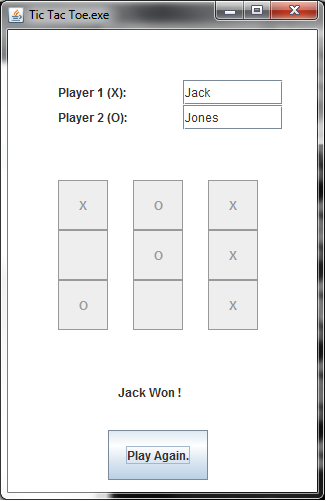
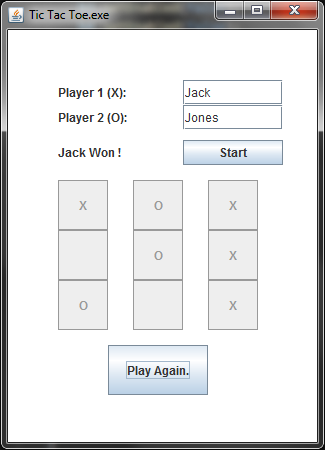
Added some features to avoid cheating.

diff --git a/tictactoe.java b/tictactoe.java
@@ -8,7 +8,7 @@ import java.awt.event.*;
 
 /**
     created on December 05 2018 Wed .
- */
+*/
 
 class tictac extends JFrame implements ActionListener
 {
@@ -23,6 +23,7 @@ class tictac extends JFrame implements ActionListener
     JButton b7=new JButton("");
     JButton b8=new JButton("");
     JButton b9=new JButton("");
+    JButton start=new JButton("Start");
     JLabel l1=new JLabel("Player 1 (X): ");
     JLabel l2=new JLabel("Player 2 (O): ");
     JTextField t1=new JTextField();
@@ -42,7 +43,7 @@ class tictac extends JFrame implements ActionListener
         c.setBackground(Color.WHITE);
 
         /* give the position to the buttons */
-        l3.setBounds(100,350,100,25);
+        l3.setBounds(50,110,100,25);
         t1.setBounds(175,50,100,25);
         t2.setBounds(175,75,100,25);
         l1.setBounds(50,50,100,25);
@@ -56,7 +57,8 @@ class tictac extends JFrame implements ActionListener
         b7.setBounds(50,250,50,50);
         b8.setBounds(125,250,50,50);
         b9.setBounds(200,250,50,50);
-        b0.setBounds(100,400,100,50);
+        b0.setBounds(100,315,100,50);
+        start.setBounds(175,110,100,25);
 
         b1.addActionListener(this);
         b2.addActionListener(this);
@@ -68,6 +70,7 @@ class tictac extends JFrame implements ActionListener
         b8.addActionListener(this);
         b9.addActionListener(this);
         b0.addActionListener(this);
+        start.addActionListener(this);
 
         /* adding buttons to container */
 
@@ -84,8 +87,9 @@ class tictac extends JFrame implements ActionListener
         c.add(l2);
         c.add(t1);
         c.add(t2);
-        c.add(l3);
         c.add(b0);
+        c.add(l3);
+        c.add(start);
 
         Cursor cur=new Cursor(Cursor.HAND_CURSOR);
 
@@ -99,6 +103,7 @@ class tictac extends JFrame implements ActionListener
         b8.setCursor(cur);
         b9.setCursor(cur);
         b0.setCursor(cur);
+        start.setCursor(cur);
 
     }// constructor
 
@@ -106,6 +111,7 @@ class tictac extends JFrame implements ActionListener
     {
         if(e.getSource()==b1){
             if(player1Turn == true){
+                l3.setText(""+t2.getText()+"'s Turn !");
                 b1.setText("X");
                 checkforwin();
                 player1Turn = false;
@@ -113,6 +119,7 @@ class tictac extends JFrame implements ActionListener
                 b1.setEnabled(false);
             }
             else{
+                l3.setText(""+t1.getText()+"'s Turn !");
                 b1.setText("O");
                 checkforwin();
                 player1Turn = true;
@@ -123,6 +130,7 @@ class tictac extends JFrame implements ActionListener
 
         if(e.getSource()==b2){
             if(player1Turn == true){
+                l3.setText(""+t2.getText()+"'s Turn !");
                 b2.setText("X");
                 checkforwin();
                 player1Turn = false;
@@ -130,6 +138,7 @@ class tictac extends JFrame implements ActionListener
                 b2.setEnabled(false);
             }
             else{
+                l3.setText(""+t1.getText()+"'s Turn !");
                 b2.setText("O");
                 checkforwin();
                 player1Turn = true;
@@ -140,6 +149,7 @@ class tictac extends JFrame implements ActionListener
 
         if(e.getSource()==b3){
             if(player1Turn == true){
+                l3.setText(""+t2.getText()+"'s Turn !");
                 b3.setText("X");
                 checkforwin();
                 player1Turn = false;
@@ -147,6 +157,7 @@ class tictac extends JFrame implements ActionListener
                 b3.setEnabled(false);
             }
             else{
+                l3.setText(""+t1.getText()+"'s Turn !");
                 b3.setText("O");
                 checkforwin();
                 player1Turn = true;
@@ -157,6 +168,7 @@ class tictac extends JFrame implements ActionListener
 
         if(e.getSource()==b4){
             if(player1Turn == true){
+                l3.setText(""+t2.getText()+"'s Turn !");
                 b4.setText("X");
                 checkforwin();
                 player1Turn = false;
@@ -164,6 +176,7 @@ class tictac extends JFrame implements ActionListener
                 b4.setEnabled(false);
             }
             else{
+                l3.setText(""+t1.getText()+"'s Turn !");
                 b4.setText("O");
                 checkforwin();
                 player1Turn = true;
@@ -174,6 +187,7 @@ class tictac extends JFrame implements ActionListener
 
         if(e.getSource()==b5){
             if(player1Turn == true){
+                l3.setText(""+t2.getText()+"'s Turn !");
                 b5.setText("X");
                 checkforwin();
                 player1Turn = false;
@@ -181,6 +195,7 @@ class tictac extends JFrame implements ActionListener
                 b5.setEnabled(false);
             }
             else{
+                l3.setText(""+t1.getText()+"'s Turn !");
                 b5.setText("O");
                 checkforwin();
                 player1Turn = true;
@@ -191,6 +206,7 @@ class tictac extends JFrame implements ActionListener
 
         if(e.getSource()==b6){
             if(player1Turn == true){
+                l3.setText(""+t2.getText()+"'s Turn !");
                 b6.setText("X");
                 checkforwin();
                 player1Turn = false;
@@ -198,6 +214,7 @@ class tictac extends JFrame implements ActionListener
                 b6.setEnabled(false);
             }
             else{
+                l3.setText(""+t1.getText()+"'s Turn !");
                 b6.setText("O");
                 checkforwin();
                 player1Turn = true;
@@ -208,6 +225,7 @@ class tictac extends JFrame implements ActionListener
 
         if(e.getSource()==b7){
             if(player1Turn == true){
+                l3.setText(""+t2.getText()+"'s Turn !");
                 b7.setText("X");
                 checkforwin();
                 player1Turn = false;
@@ -215,6 +233,7 @@ class tictac extends JFrame implements ActionListener
                 b7.setEnabled(false);
             }
             else{
+                l3.setText(""+t1.getText()+"'s Turn !");
                 b7.setText("O");
                 checkforwin();
                 player1Turn = true;
@@ -225,6 +244,7 @@ class tictac extends JFrame implements ActionListener
 
         if(e.getSource()==b8){
             if(player1Turn == true){
+                l3.setText(""+t2.getText()+"'s Turn !");
                 b8.setText("X");
                 checkforwin();
                 player1Turn = false;
@@ -232,6 +252,7 @@ class tictac extends JFrame implements ActionListener
                 b8.setEnabled(false);
             }
             else{
+                l3.setText(""+t1.getText()+"'s Turn !");
                 b8.setText("O");
                 checkforwin();
                 player1Turn = true;
@@ -242,6 +263,7 @@ class tictac extends JFrame implements ActionListener
 
         if(e.getSource()==b9){
             if(player1Turn == true){
+                l3.setText(""+t2.getText()+"'s Turn !");
                 b9.setText("X");
                 checkforwin();
                 player1Turn = false;
@@ -249,6 +271,7 @@ class tictac extends JFrame implements ActionListener
                 b9.setEnabled(false);
             }
             else{
+                l3.setText(""+t1.getText()+"'s Turn !");
                 b9.setText("O");
                 checkforwin();
                 player1Turn = true;
@@ -266,6 +289,13 @@ class tictac extends JFrame implements ActionListener
             player2Turn = false;
             player1Won = false;
             player2Won = false;
+            l3.setText("");
+        }
+
+        if(e.getSource()==start)
+        {
+            l3.setText(""+t1.getText()+"'s Turn !");
+            start.setEnabled(false);
         }
 
         if(flag == 9)
@@ -492,12 +522,13 @@ class tictac extends JFrame implements ActionListener
         b7.setEnabled(true);
         b8.setEnabled(true);
         b9.setEnabled(true);
+        start.setEnabled(true);
     }
 
     public void draw()
     {
         disable_button();
-        l3.setText("****Draw****");
+        l3.setText("****DRAW****");
     }
 
 }// class tictac
@@ -507,7 +538,7 @@ class tictactoe{
     {
         tictac ob= new tictac();
         ob.setVisible(true);
-		ob.setBounds(100,100,325,500);
+		ob.setBounds(100,100,325,450);
 		ob.setTitle("Tic Tac Toe.exe");
         ob.setDefaultCloseOperation(JFrame.EXIT_ON_CLOSE);
     }// end of main
